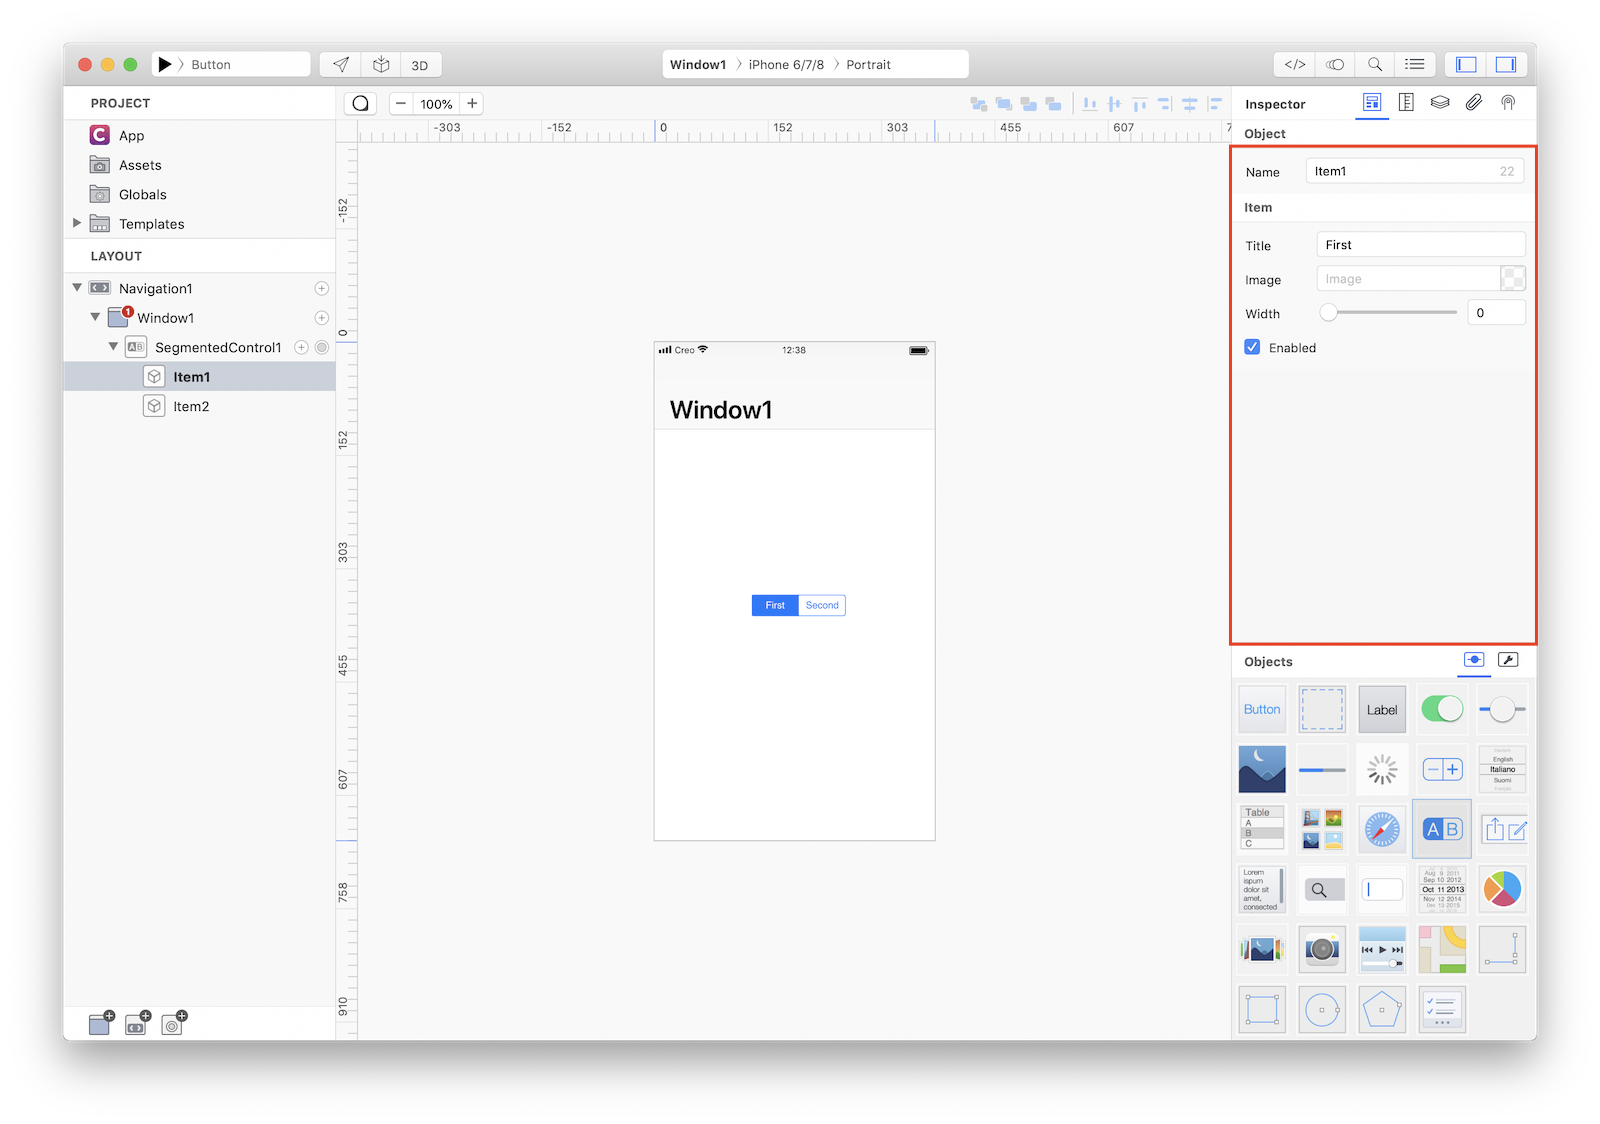
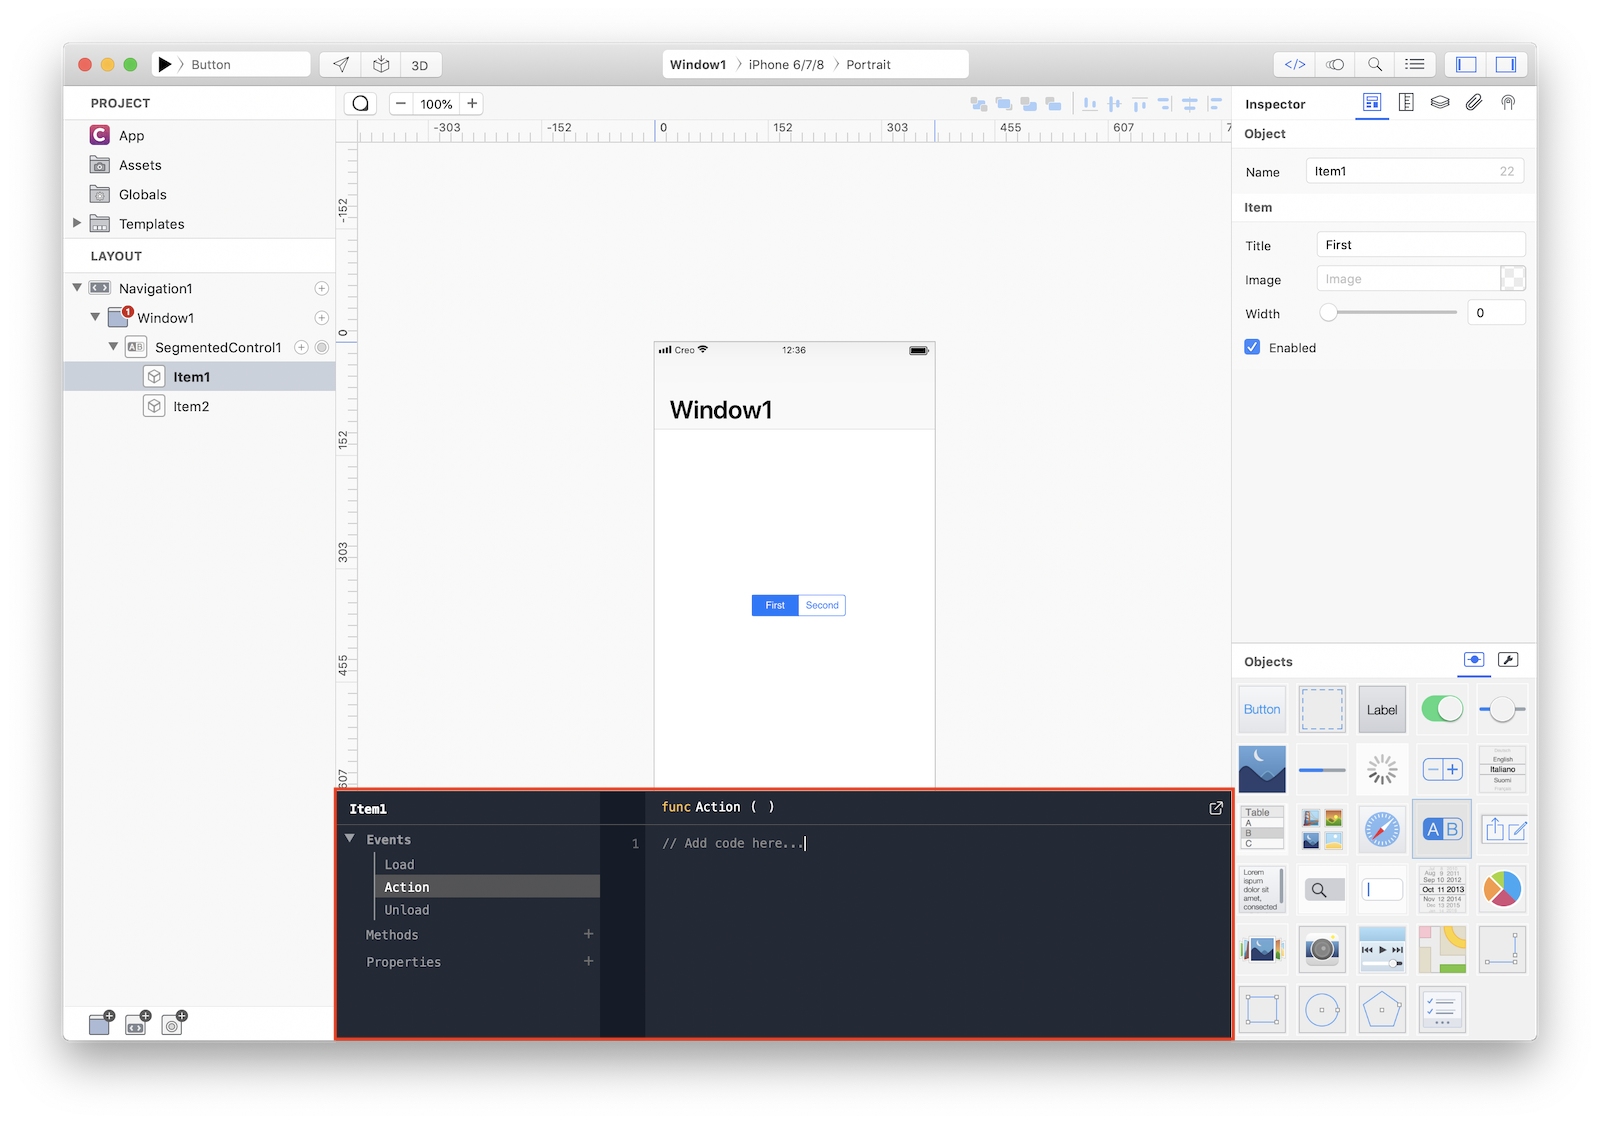
Improved SegmentedControl

Changed region(s): [[0.1875, 0.6851, 0.7812, 0.9342], [0.7812, 0.5605, 0.9688, 0.5916], [0.7812, 0.1246, 0.9688, 0.1557]]

diff --git a/docs/drafts/SegmentedControl.md b/docs/drafts/SegmentedControl.md
@@ -14,14 +14,18 @@ A simple `SegmentedControl`.
 
 ### How to use
 1. Add a `SegmentedControl` to a `Window`
-//2. Configure every desired propery from the `Inspector` like `Title` and `Style`
-//3. Open the `Code Editor` clicking the `View` ->  `Actions Panel`  -> `Code Editor` menu item
-//4. Select the `Action` item inside the `Events` area and write your custom code in the `Code Editor`
+2. Add one or more `SegmentedControl` items by clicking on the `+` button on the right side of the selected `SegmentedControl` item into the layout area
+3. Select the `SegmentedControl` item you want to configure and from the inspector change every property as requested
+3. Open the `Code Editor` clicking the `View` ->  `Actions Panel`  -> `Code Editor` menu item
+4. Select the `Action` item inside the `Events` area and write your custom code in the `Code Editor`
 
 ![The `SegmentedControl` inspector](images/segmentedcontrol2.png)
-The inspector where the `SegmentedControl` class can be configured.
+The inspector where the `SegmentedControl` can be configured.
 
-![The `Code Editor` where to interact with events and write custom code](images/segmentedcontrol3.png)
+![The `SegmentedControl` item inspector](images/segmentedcontrol3.png)
+The inspector where the `SegmentedControl` item can be configured.
+
+![The `Code Editor` where to interact with events and write custom code](images/segmentedcontrol4.png)
 The `Code Editor` where to interact with events and write custom code.
 
 #### Example
